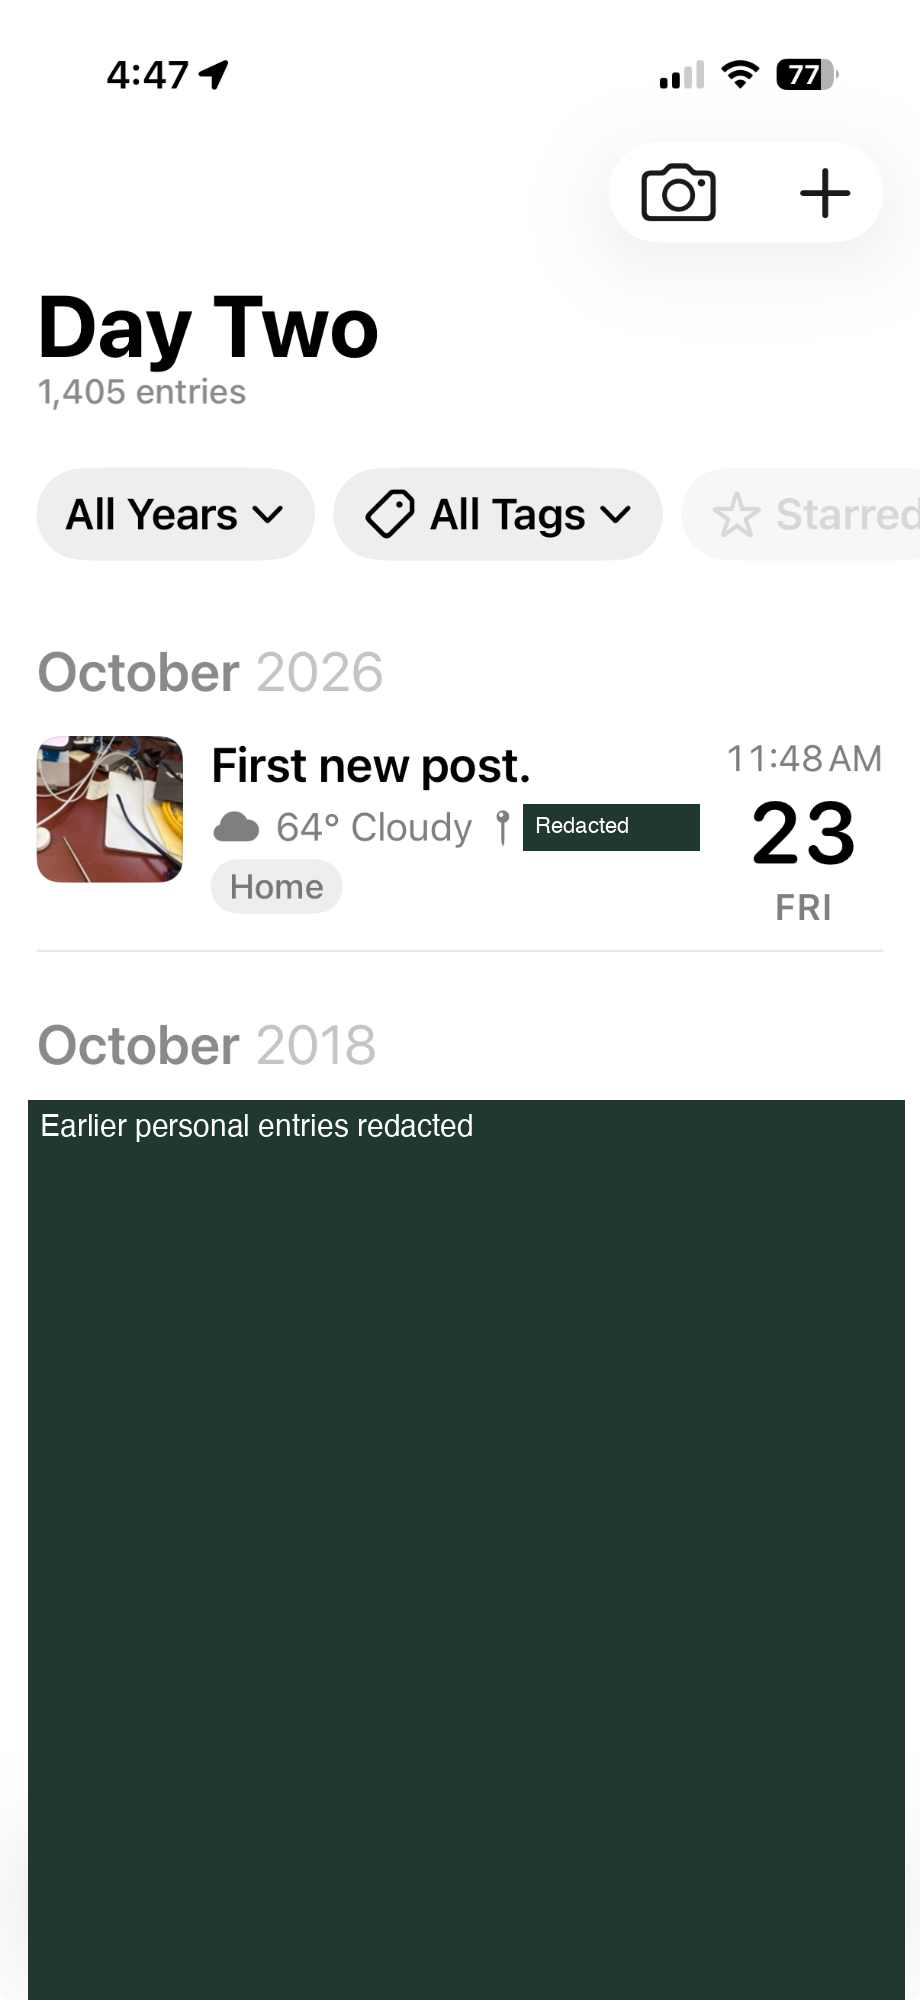
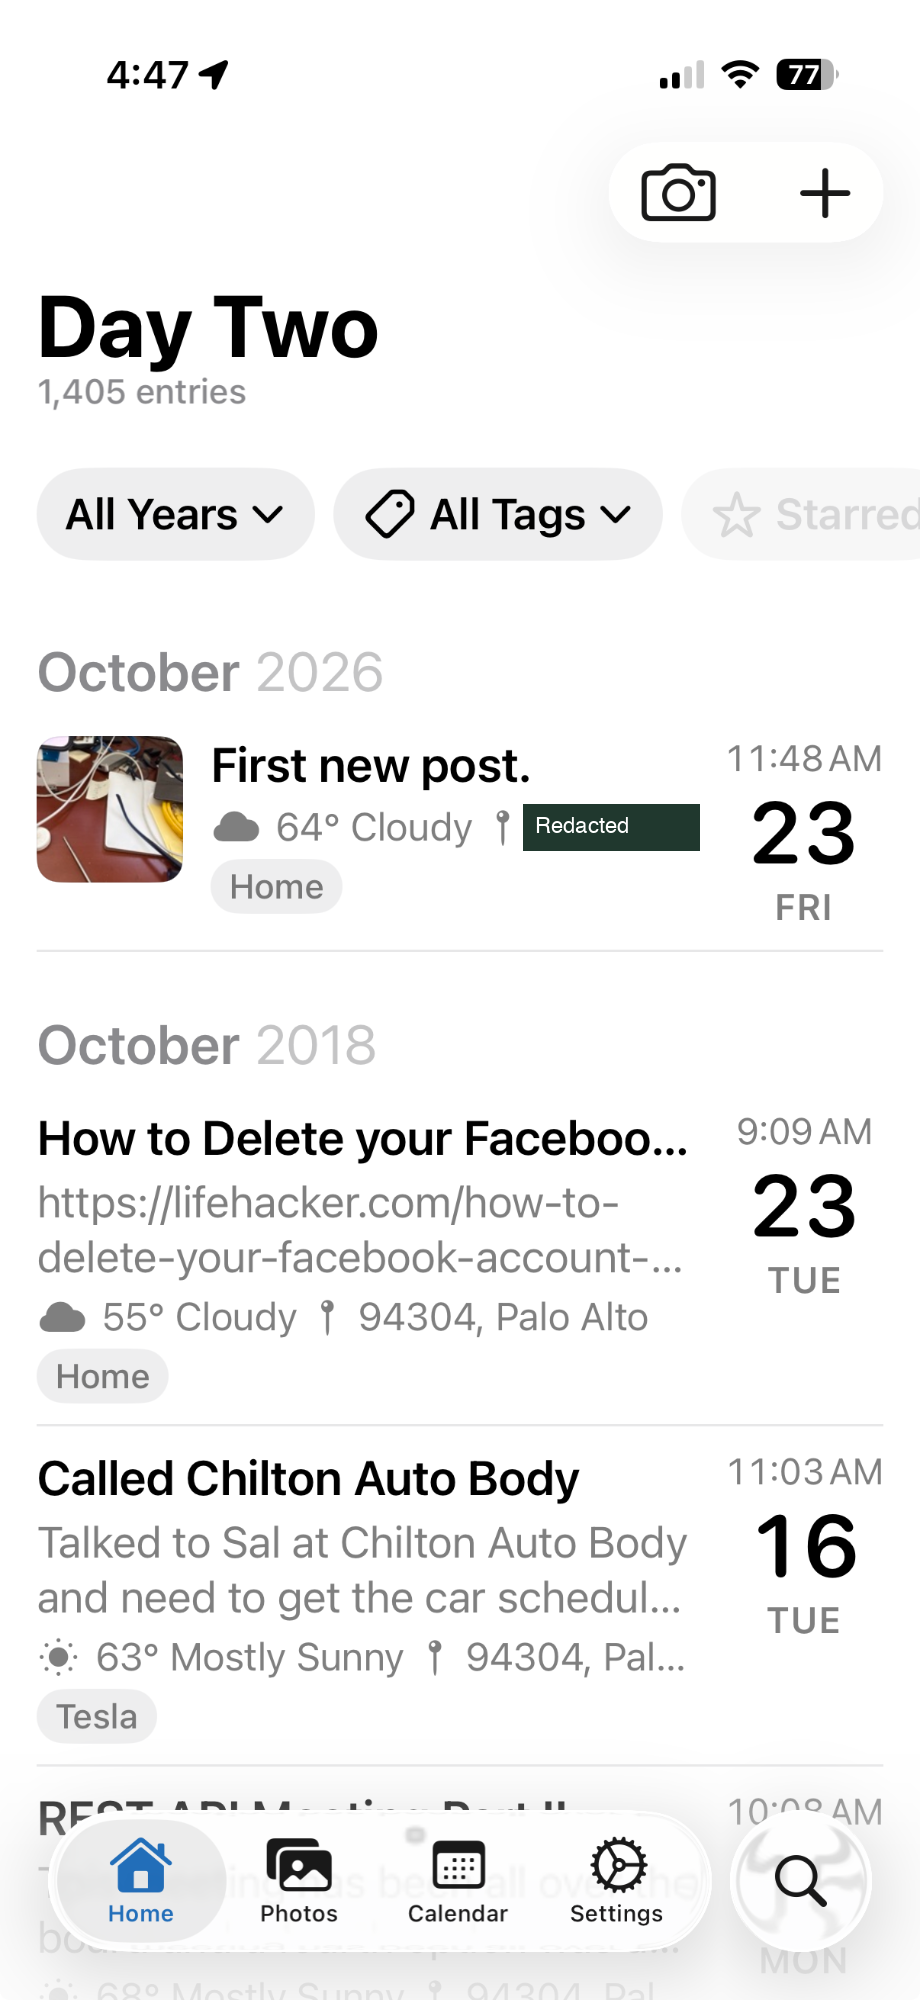
docs: restore journal entries outside address redactions

diff --git a/journey.html b/journey.html
@@ -57,12 +57,12 @@
 </article><article id="entry-4" aria-labelledby="title-4">
 <div class="chapter"><span>Day 2</span><time datetime="2026-10-23">2026-10-23</time></div>
 <h2 id="title-4">Entry number 1,405</h2>
-<div class="spread"><figure><img src="assets/journey/first-new-post.png" width="920" height="2000" alt="Steve’s phone attachment: Day Two, 1,405 entries and First new post.  Private location or entry details redacted with opaque masks." loading="lazy"><figcaption>Steve’s phone attachment: Day Two, 1,405 entries and First new post.  Private location or entry details redacted with opaque masks.</figcaption></figure><div class="prose"><p>There is a tiny detail in this phone screenshot that makes the whole project feel real. The heading says 1,405 entries.</p>
+<div class="spread"><figure><img src="assets/journey/first-new-post.png" width="920" height="2000" alt="Steve’s phone attachment: Day Two, 1,405 entries and First new post.  Home-address text redacted with an opaque mask." loading="lazy"><figcaption>Steve’s phone attachment: Day Two, 1,405 entries and First new post.  Home-address text redacted with an opaque mask.</figcaption></figure><div class="prose"><p>There is a tiny detail in this phone screenshot that makes the whole project feel real. The heading says 1,405 entries.</p>
 <p>One above the recovered archive.</p>
 <p>At the top is “First new post.” Below it, the timeline jumps back to October 2018. A photograph of a desk sits beside the new entry. Years of silence fit between two neighboring month headings.</p>
 <p>This screenshot entered the conversation as a layout problem: move “Day Two” upward and reclaim the whitespace. Yet it captured something larger than a navigation-bar adjustment. Steve was already using the app to continue the journal.</p>
 <p>The old entries were no longer the only reason to open it. There was now something new to put beside them.</p>
-<p>This is Steve’s original phone screenshot, with the address fragment and older personal-entry details redacted. It is not a synthetic showcase screen.</p></div></div>
+<p>This is Steve’s original phone screenshot, with only the home-address fragment redacted. It is not a synthetic showcase screen.</p></div></div>
 </article><article id="entry-5" aria-labelledby="title-5">
 <div class="chapter"><span>Day 2</span><time datetime="2026-10-23">2026-10-23</time></div>
 <h2 id="title-5">A way back into an ordinary day</h2>
@@ -90,7 +90,7 @@
 </article><article id="entry-8" aria-labelledby="title-8">
 <div class="chapter"><span>Day 4</span><time datetime="2026-10-25">2026-10-25</time></div>
 <h2 id="title-8">The details become the design</h2>
-<div class="spread"><figure><img src="assets/journey/entry-before.png" width="920" height="2000" alt="Steve’s October 25 phone attachment before compact metadata header; test text. Private location or entry details redacted with opaque masks." loading="lazy"><figcaption>Steve’s October 25 phone attachment before compact metadata header; test text. Private location or entry details redacted with opaque masks.</figcaption></figure><div class="prose"><p>The fourth day is full of requests that sound small until you use the app.</p>
+<div class="spread"><figure><img src="assets/journey/entry-before.png" width="920" height="2000" alt="Steve’s October 25 phone attachment before compact metadata header; test text. Home-address text redacted with an opaque mask." loading="lazy"><figcaption>Steve’s October 25 phone attachment before compact metadata header; test text. Home-address text redacted with an opaque mask.</figcaption></figure><div class="prose"><p>The fourth day is full of requests that sound small until you use the app.</p>
 <p>Move creation to a floating button. Put editing within reach. Make the weather glyph look like the weather it names. Give the location a red pin. Tighten the space around the title. Bring metadata closer to the words it describes.</p>
 <p>The attached phone screenshot shows a test entry before the compact metadata-header change: the date appears in more than one place and the contextual details sit below the body. It is a useful “before,” not a screenshot of the final design.</p>
 <p>The commit history records each adjustment separately. That made the result reviewable, but it also tells us something about the process. The app was being designed through attention: Steve noticed the next point of friction, supplied an example, and tried the result on a phone.</p>
@@ -170,7 +170,7 @@
 <div class="spread"><figure><img src="assets/journey/showcase-calendar-dark.png" width="1206" height="2622" alt="Real calendar in dark appearance; fictional showcase and generated in-entry photographs." loading="lazy"><figcaption>Real calendar in dark appearance; fictional showcase and generated in-entry photographs.</figcaption></figure><div class="prose"><p>The first time, the photographs were already there. The words were already written. What was missing was a good way back.</p>
 <p>Now the project has its own memories: a blue 2, a menu that counted 1,404 entries, a first new post, a green horizon, days turning into photographic tiles, two quiet widgets inviting a return.</p>
 <p>This journal keeps those moments together. It is a retrospective assembled on October 28 from sessions, plans, ticket records, commits and retained visual artifacts. Its dates place the story on the days it happened; its entry times are editorial ordering, not reconstructed minute-by-minute eyewitness notes. The core build covers October 22–26, with an October 11 prologue and an October 27–28 epilogue.</p>
-<p>Early screenshots record the original journal with private details redacted. Others show explicitly identified test or fictional showcase content. Publication images are retained with provenance; street addresses and historical personal-entry details are visibly redacted where needed. None of the app interfaces was invented for this story.</p>
+<p>Early screenshots record the original journal with only home-address text redacted. Others show explicitly identified test or fictional showcase content. Publication images are retained with provenance; home-address text is visibly redacted where needed. None of the app interfaces was invented for this story.</p>
 <p>MemScape is still being made. The important change has already happened: the archive is no longer waiting to be opened.</p>
 <p>And now the story of building its new home has a home of its own.</p></div></div>
 </article></div>
